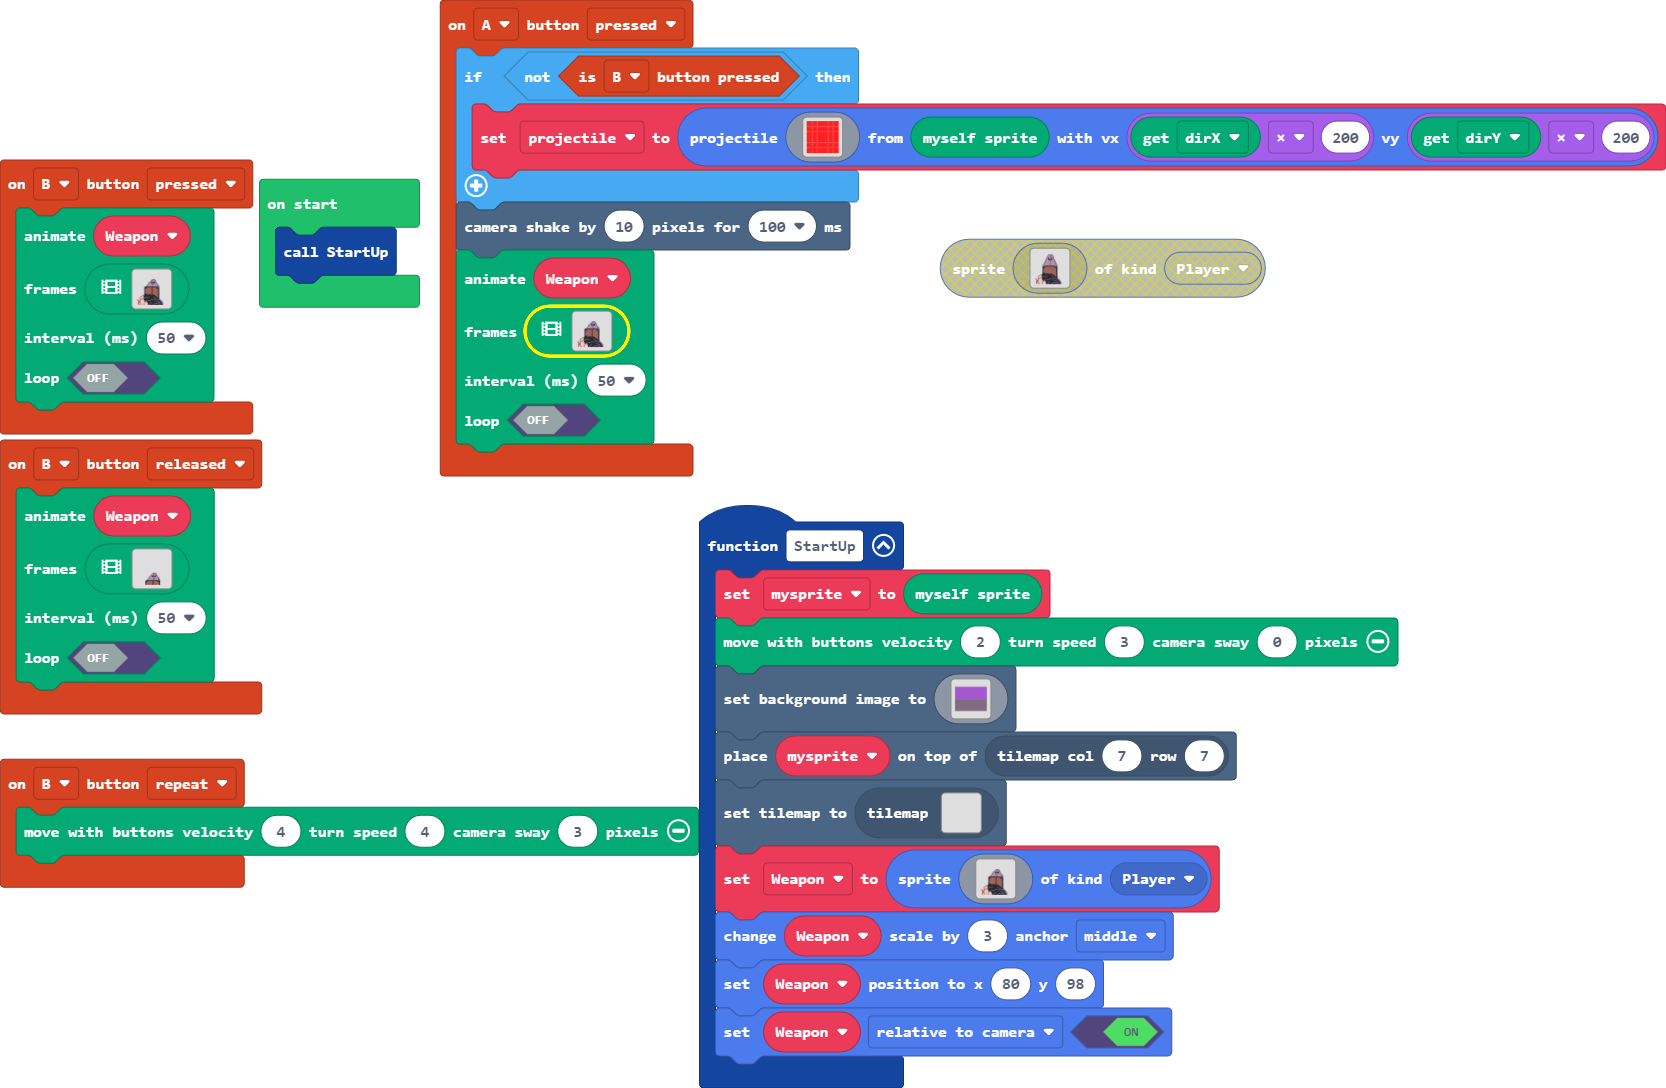
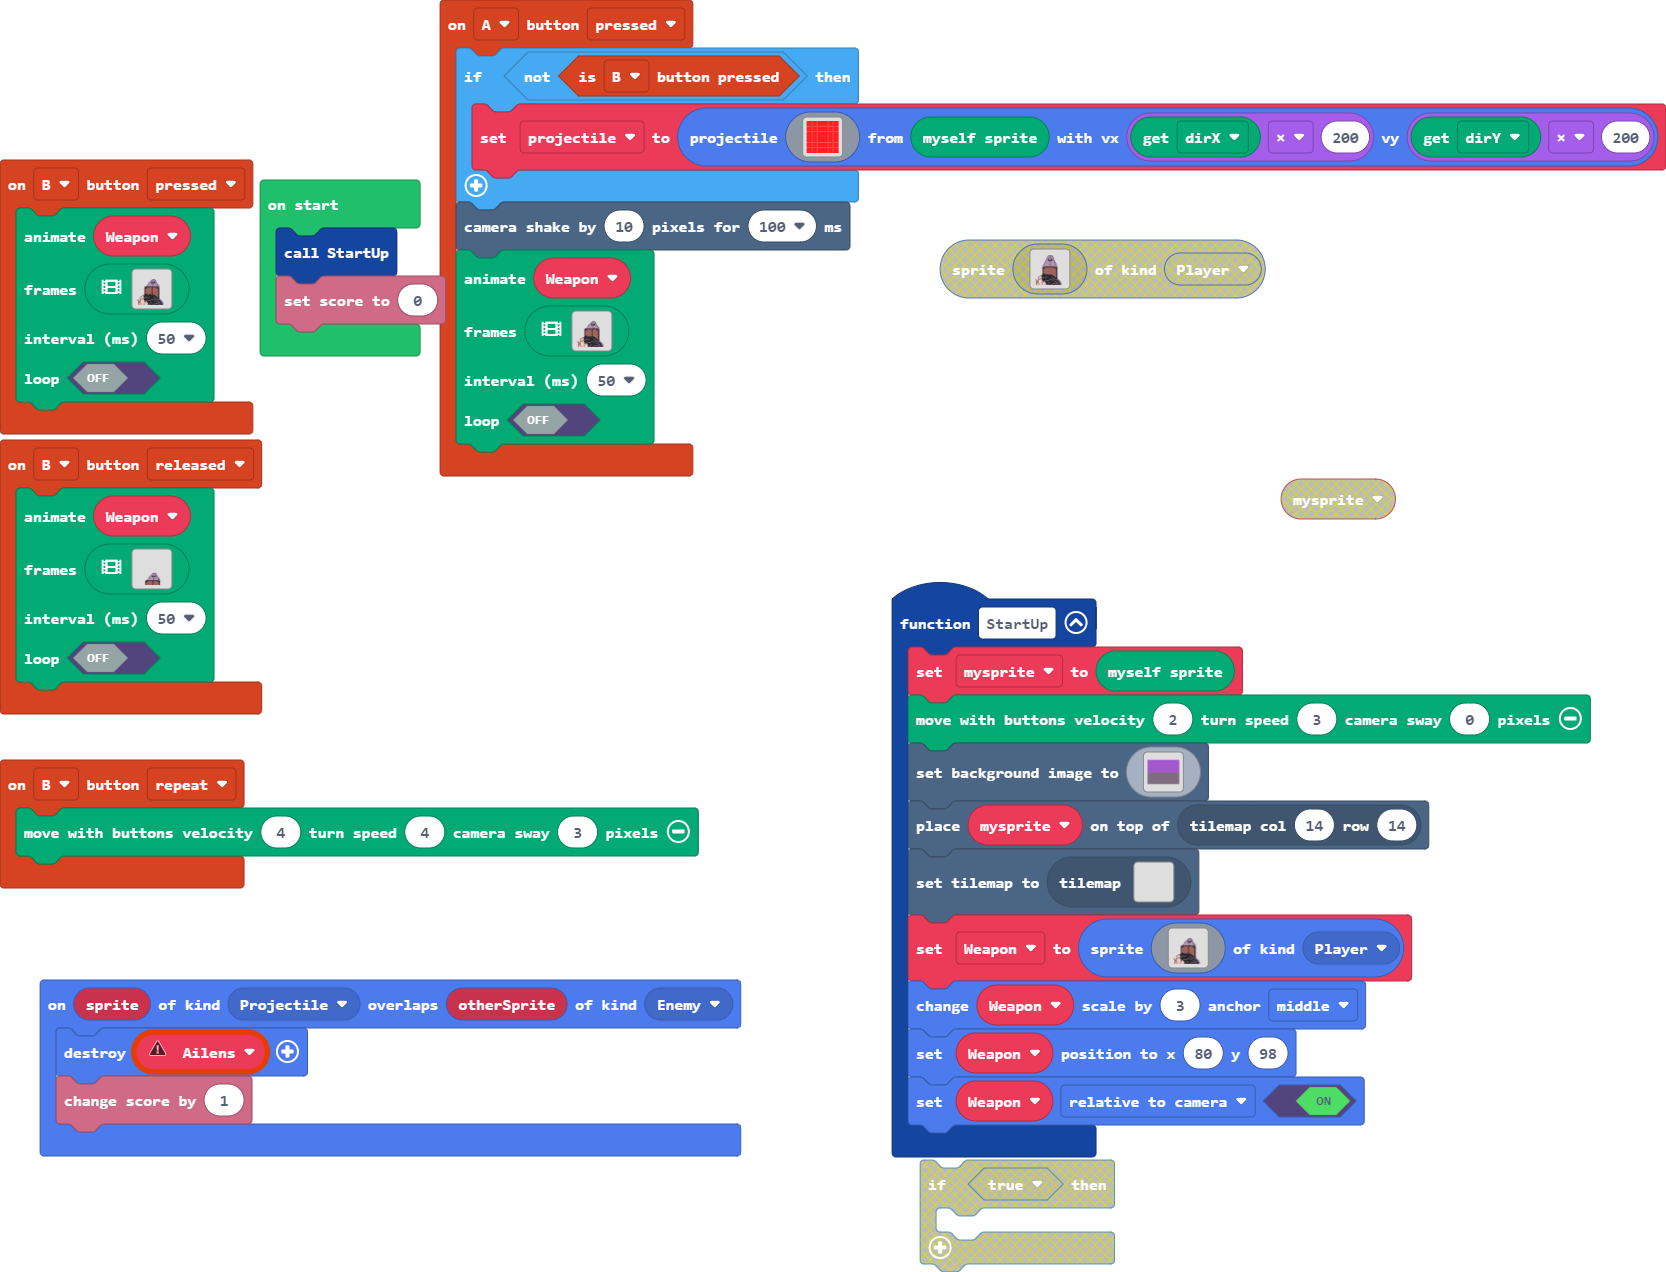
Update main.blocks, main.ts, tilemap.g.jres, tilemap.g.ts

diff --git a/tilemap.g.ts b/tilemap.g.ts
@@ -6,23 +6,47 @@ namespace myTiles {
     helpers._registerFactory("tilemap", function(name: string) {
         switch(helpers.stringTrim(name)) {
             case "level1":
-            case "level1":return tiles.createTilemap(hex`1000100000000000000000000000000000000000000000000000000000000000000000000000000000000000000000000000000000000000000000000000000000000000000000000000000000000000000000000000000000000000000000000000000000000000000000000000000000000000000000000000000000000000000000000000000000000000000000000000000000000000000000000000000000000000000000000000000000000000000000000000000000000000000000000000000000000000000000000000000000000000000000000000000000000000000000000000000000000000000000000000000000000000000000000000000000000000`, img`
-2 2 2 2 2 2 2 2 2 2 2 2 2 2 2 2 
-2 2 2 2 2 2 2 2 2 2 2 2 2 2 2 2 
-2 2 2 2 2 2 2 2 2 2 2 2 2 2 2 2 
-2 2 2 . . . . . . . . . . 2 2 2 
-2 2 2 . . . . . . . . . . 2 2 2 
-2 2 2 . . . . . . . . . . 2 2 2 
-2 2 2 . . . . . . . . . . 2 2 2 
-2 2 2 . . . . . . . . . . 2 2 2 
-2 2 2 . . . . . . . . . . 2 2 2 
-2 2 2 . . . . . . . . . . 2 2 2 
-2 2 2 . . . . . . . . . . 2 2 2 
-2 2 2 . . . . . . . . . . 2 2 2 
-2 2 2 . . . . . . . . . . 2 2 2 
-2 2 2 2 2 2 2 2 2 2 2 2 2 2 2 2 
-2 2 2 2 2 2 2 2 2 2 2 2 2 2 2 2 
-2 2 2 2 2 2 2 2 2 2 2 2 2 2 2 2 
+            case "level1":return tiles.createTilemap(hex`2800280000000000000000000000000000000000000000000000000000000000000000000000000000000000000000000000000000000000000000000000000000000000000000000000000000000000000000000000000000000000000000000000000000000000000000000000000000000000000000000000000000000000000000000000000000000000000000000000000000000000000000000000000000000000000000000000000000000000000000000000000000000000000000000000000000000000000000000000000000000000000000000000000000000000000000000000000000000000000000000000000000000000000000000000000000000000000000000000000000000000000000000000000000000000000000000000000000000000000000000000000000000000000000000000000000000000000000000000000000000000000000000000000000000000000000000000000000000000000000000000000000000000000000000000000000000000000000000000000000000000000000000000000000000000000000000000000000000000000000000000000000000000000000000000000000000000000000000000000000000000000000000000000000000000000000000000000000000000000000000000000000000000000000000000000000000000000000000000000000000000000000000000000000000000000000000000000000000000000000000000000000000000000000000000000000000000000000000000000000000000000000000000000000000000000000000000000000000000000000000000000000000000000000000000000000000000000000000000000000000000000000000000000000000000000000000000000000000000000000000000000000000000000000000000000000000000000000000000000000000000000000000000000000000000000000000000000000000000000000000000000000000000000000000000000000000000000000000000000000000000000000000000000000000000000000000000000000000000000000000000000000000000000000000000000000000000000000000000000000000000000000000000000000000000000000000000000000000000000000000000000000000000000000000000000000000000000000000000000000000000000000000000000000000000000000000000000000000000000000000000000000000000000000000000000000000000000000000000000000000000000000000000000000000000000000000000000000000000000000000000000000000000000000000000000000000000000000000000000000000000000000000000000000000000000000000000000000000000000000000000000000000000000000000000000000000000000000000000000000000000000000000000000000000000000000000000000000000000000000000000000000000000000000000000000000000000000000000000000000000000000000000000000000000000000000000000000000000000000000000000000000000000000000000000000000000000000000000000000000000000000000000000000000000000000000000000000000000000000000000000000000000000000000000000000000000000000000000000000000000000000000000000000000000000000000000000000000000000000000000000000000000000000000000000000000000000000000000000000000000000000000000000000000000000000000000000000000000000000000000000000000000000000000000000000000000000000000000000000000000000000000000000000000000000000000000000000000000000000000000000000000000000000000000000000000000000000000000000000000000000000000000000000000000000000000000000000000000000000000000000000000000000000000000000000000000000000000000000000000000000000000000000000000000000000000000000000000000000000000000000000000000000000000000000000000000000000000000000000000000000000000000000000000000000000000000000000000000000000000000000000000000000000000000000000000000000000000000000000000000000000000000000000000000000`, img`
+2222222222222222222222222222222222222222
+2......2.22222222222..........22.....2.2
+2...2222...........222.......22.....22.2
+2.222................2222...22......2..2
+222.....................22222......22..2
+22......22222222..................22...2
+22......2......2..................22...2
+22......2......2...................2...2
+22.....2.......22..................22..2
+2......2........2..............22...2..2
+2......2.......222222222222222222...2..2
+2......2.......2222222222222....22..22.2
+2.....2........2222222222222.....2...2.2
+2.....2..................22.....22...222
+2.....2.........................2.....22
+2......2...222..................2.....22
+22.....2...222.................22......2
+222....2...222...........222.222.......2
+2.22...22..222...........22222.........2
+2..2....222222...........222...........2
+2..2......2222...........222.......2...2
+2..2.....................222......2....2
+2..2.....................222......2....2
+2..22222222222...........222......2....2
+2..........222222..2..222222....22.....2
+2..........222222..2..222222...222.....2
+2..........222222..2..222222..22.2.....2
+2...............2..2..2....2222..2.....2
+2...............2..2..2..........2.....2
+2..............22..2..2..........2.....2
+2.............22...2..2222.......2.....2
+2..........222.....2.....2.......2.....2
+2.........22.......2......2......2.....2
+2................................22....2
+2.....2................................2
+2....22................................2
+2..22..................................2
+2.22...............2......22...........2
+222................2.......2222........2
+2222222222222222222222222222222222222222
 `, [myTiles.transparency16], TileScale.Sixteen);
         }
         return null;

diff --git a/main.ts b/main.ts
@@ -817,7 +817,7 @@ function StartUp () {
         cccccccccccccccccccccccccccccccccccccccccccccccccccccccccccccccccccccccccccccccccccccccccccccccccccccccccccccccccccccccccccccccccccccccccccccccccccccccccccccccc
         cccccccccccccccccccccccccccccccccccccccccccccccccccccccccccccccccccccccccccccccccccccccccccccccccccccccccccccccccccccccccccccccccccccccccccccccccccccccccccccccc
         `)
-    tiles.placeOnTile(mysprite, tiles.getTileLocation(7, 7))
+    tiles.placeOnTile(mysprite, tiles.getTileLocation(14, 14))
     tiles.setCurrentTilemap(tilemap`level1`)
     Weapon = sprites.create(img`
         ........................................
@@ -865,7 +865,13 @@ function StartUp () {
     Weapon.setPosition(80, 98)
     Weapon.setFlag(SpriteFlag.RelativeToCamera, true)
 }
+sprites.onOverlap(SpriteKind.Projectile, SpriteKind.Enemy, function (sprite, otherSprite) {
+    let Ailens: Sprite = null
+    sprites.destroy(Ailens)
+    info.changeScoreBy(1)
+})
 let mysprite: Sprite = null
 let projectile: Sprite = null
 let Weapon: Sprite = null
 StartUp()
+info.setScore(0)
